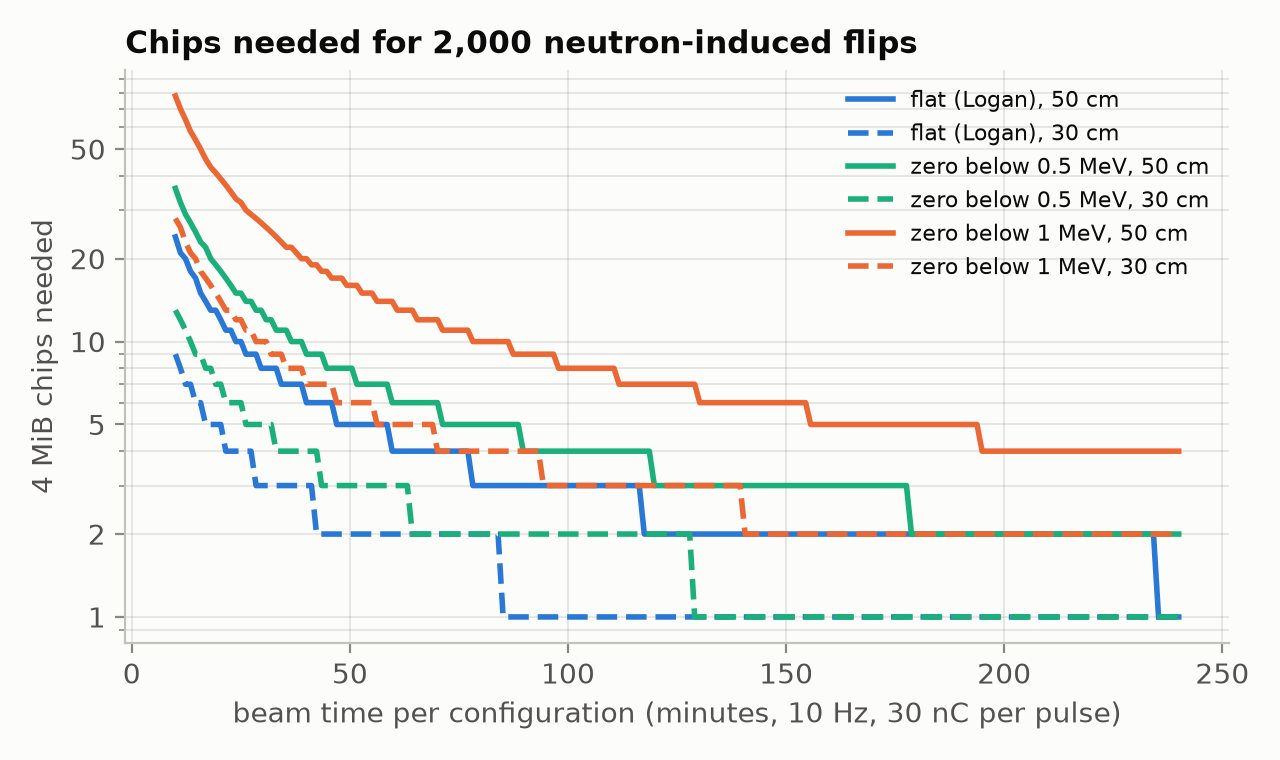
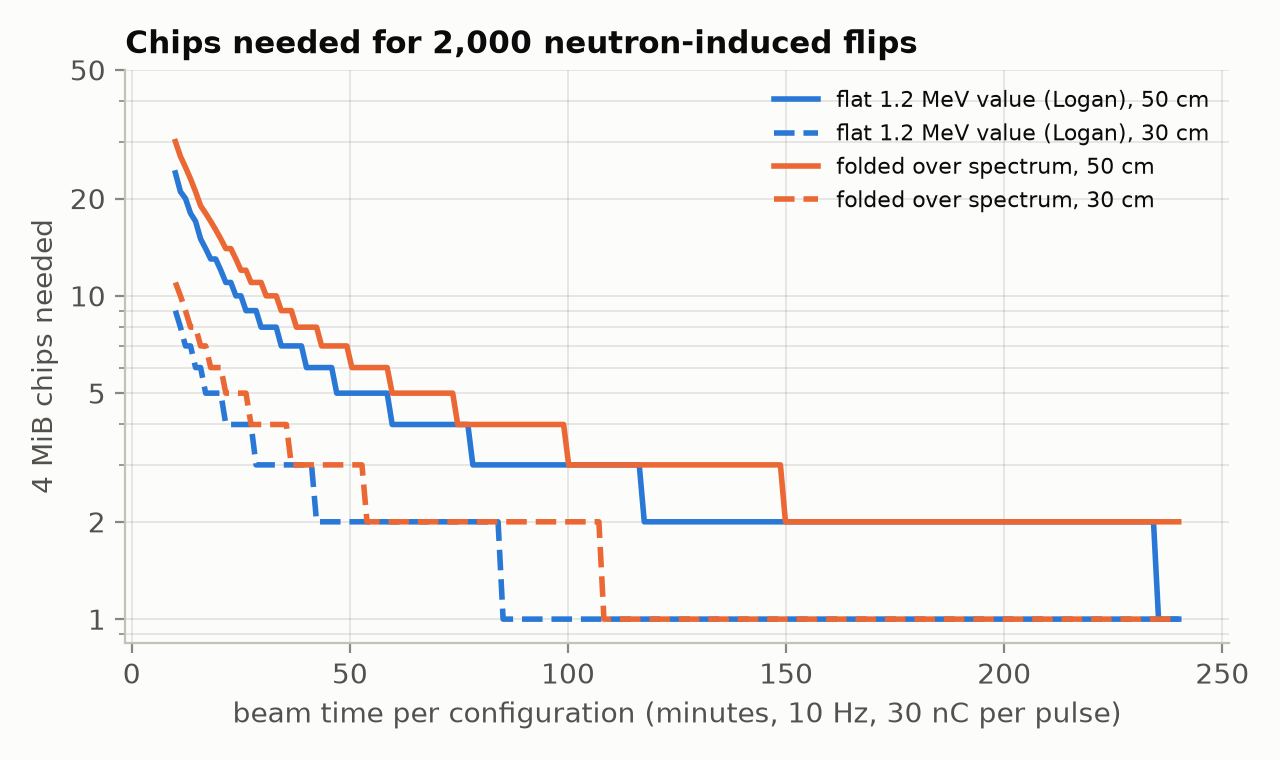
Fold measured neutron cross-section curve with Geant4 spectra
Logan's update adds the ISSI SRAM's sigma(E) Weibull fit, thermal-neutron
cross-section and dose-tolerance evidence. rate_calc.py folds sigma(E)
with every configuration's spectrum: 0.0112 flips/pulse/chip behind lead
(21% below the single-energy estimate); behind 10 cm polyethylene 75% of
upsets come from thermal neutrons.

diff --git a/burst_sim/rate_calc.py b/burst_sim/rate_calc.py
@@ -2,8 +2,8 @@
 Upset rates and memory needed, built on Logan's estimate (radiation_estimates.md).
 
 1. Reproduces Logan's numbers exactly, as a check.
-2. Brackets the neutron rate using the simulated energy spectrum behind lead,
-   because the cross-section is only known here at 1.2 MeV.
+2. Folds the measured cross-section curve sigma(E) (Cecchetto 2021 Weibull fit, plus
+   a thermal-neutron term) with the Geant4 spectrum of every configuration.
 3. Tabulates chips needed against beam time, for 1,000 and 2,000 flips.
 4. Dose per pulse for the direct-electron arm.
 
@@ -18,7 +18,7 @@ import numpy as np
 import matplotlib.pyplot as plt
 
 from burst_sim import save, HERE, BLUE, ORANGE, AQUA, INK2
-from flux_sim import load, zone_area_cm2, E_EDGES
+from flux_sim import load, zone_area_cm2, E_EDGES, CONFIGS
 
 E_CHARGE = 1.602176634e-19
 E_PER_NC = 1e-9 / E_CHARGE
@@ -38,11 +38,34 @@ TIMES_MIN = [10, 30, 60, 120, 240]
 TARGETS = [1000, 2000]
 
 
-def neutron_spectrum():
-    """Neutron fluence per electron per cm2 at 80-100 deg, 50 cm, behind W 2 cm + 10 cm lead."""
-    h, n = load(2.0, "lead", 10.0)
+def neutron_spectrum(thick=2.0, shield="lead", sthick=10.0):
+    """Neutron fluence per electron per cm2 per energy bin at 80-100 deg, 50 cm."""
+    h, n = load(thick, shield, sthick)
+    if h is None:
+        return None, 0
     area = zone_area_cm2()[8:10].sum()
     return h[0, 8:10].sum(0) / n / area, int(h[0, 8:10].sum())
+
+
+# Cecchetto 2021 (via Logan): Weibull fit and measured points, ISSI 40 nm SRAM
+WEIBULL = dict(sat=1.40e-14, e0=0.01, w=14.05, s=0.82)       # cm2/bit, MeV, MeV, -
+SIGMA_N_MEASURED = [(0.144, 3.68e-16), (1.2, 1.61e-15), (17.0, 1.91e-14)]
+SIGMA_THERMAL = 3.16e-15            # cm2/bit at 3.3 V, thermal neutrons (Logan's source)
+E_THERMAL = 2.53e-8                 # MeV (0.0253 eV)
+
+
+def weibull(e):
+    x = np.clip(e - WEIBULL["e0"], 0, None)
+    return WEIBULL["sat"] * (1 - np.exp(-(x / WEIBULL["w"]) ** WEIBULL["s"]))
+
+
+def thermal(e):
+    """Assumed 1/v (boron-10-like) capture response, normalised to the thermal value."""
+    return SIGMA_THERMAL * np.sqrt(E_THERMAL / e)
+
+
+def sigma_n(e):
+    return weibull(e) + thermal(e)
 
 
 def chips_needed(flips_per_chip_per_pulse, target, minutes):
@@ -77,10 +100,27 @@ def main():
     e_mid = np.sqrt(E_EDGES[:-1] * E_EDGES[1:])
     res["neutron_spectrum_behind_10cm_lead"] = dict(
         mean_energy_MeV=float((spec * e_mid).sum() / phi_e), fraction=frac)
-    # bounding models for sigma(E): same 1.2 MeV value everywhere above a threshold, 0 below
-    models = {"flat (Logan)": 1.0,
-              "zero below 0.5 MeV": frac["above_0.5_MeV"],
-              "zero below 1 MeV": frac["above_1.0_MeV"]}
+    # folded sigma(E) for every Geant4 configuration (Logan's Cecchetto fit + thermal term)
+    res["sigma_fit_check"] = {str(E): dict(fit=float(sigma_n(np.array(E))), measured=m)
+                              for E, m in SIGMA_N_MEASURED}
+    res["folded"] = {}
+    for label, thick, shield, sthick in CONFIGS:
+        sp, cnt = neutron_spectrum(thick, shield, sthick)
+        if sp is None:
+            continue
+        fast = (sp * weibull(e_mid)).sum()
+        slow = (sp * thermal(e_mid)).sum()
+        per_pulse = CHIP_BITS * E_PER_NC * Q_NEUTRON_NC
+        res["folded"][label] = dict(
+            neutrons_counted=cnt,
+            neutron_per_cm2_per_electron=float(sp.sum()),
+            thermal_fraction_below_0p5eV=float(sp[e_mid < 0.5e-6].sum() / sp.sum()),
+            effective_sigma_cm2_per_bit=float((fast + slow) / sp.sum()),
+            upsets_per_pulse_per_chip_50cm=float((fast + slow) * per_pulse),
+            fraction_from_thermal_term=float(slow / (fast + slow)))
+    lead = res["folded"]["W 2 cm + 10 cm lead"]
+    models = {"flat 1.2 MeV value (Logan)": 1.0,
+              "folded over spectrum": lead["upsets_per_pulse_per_chip_50cm"] / n_rate_flat}
     res["neutron_models"] = {}
     for name, f in models.items():
         for dist in [50, 30]:
@@ -107,7 +147,7 @@ def main():
     # ---- figure: chips needed vs beam time, 2,000 flips ----
     t = np.linspace(10, 240, 200)
     fig, ax = plt.subplots(figsize=(6.4, 3.8))
-    for (name, f), colr in zip(models.items(), [BLUE, AQUA, ORANGE]):
+    for (name, f), colr in zip(models.items(), [BLUE, ORANGE]):
         for dist, ls in [(50, "-"), (30, "--")]:
             r = n_rate_flat * f * (50 / dist) ** 2
             ax.plot(t, np.ceil(2000 / (r * t * 60 * RATE_HZ)), color=colr, ls=ls,

diff --git a/BURST_preliminary_results.md b/BURST_preliminary_results.md
@@ -151,21 +151,25 @@ Logan's write-up is in [radiation_estimates.md](radiation_estimates.md). It repl
 
 Assumed beam: 30 nC per pulse for the neutron arm, 0.01 nC per pulse on 1 cm² for the direct arm, 10 Hz.
 
-| | Flips per pulse, one chip | One chip, minutes for 1,000 flips |
-|---|---|---|
-| Neutrons, 50 cm, σ(1.2 MeV) for all neutrons (Logan) | 0.014 | 117 |
-| Neutrons, 50 cm, σ = 0 below 0.5 MeV | 0.0094 | 178 |
-| Neutrons, 50 cm, σ = 0 below 1 MeV | 0.0043 | 389 |
-| Same three, at 30 cm | 0.040 / 0.026 / 0.012 | 42 / 64 / 140 |
-| Direct electrons, 1 cm² | 0.0099 (0.005 to 0.015 at 1σ) | 168 |
+Logan then found the chip's full neutron response in the same paper: measured values at 0.144, 1.2 and 17 MeV, a Weibull fit (saturation 1.40e-14 cm², threshold 0.01 MeV, width 14.05 MeV, shape 0.82), and a thermal-neutron cross-section of (3.16 ± 0.64)e-15 cm² per bit at 3.3 V. `rate_calc.py` folds this curve with the Geant4 spectrum of every configuration. For the thermal part it assumes a 1/v (boron-10-like) energy dependence normalised to the thermal value; that shape is our assumption.
 
-**The spectrum matters.** Behind 10 cm of lead the neutrons average 0.87 MeV; 30% are above 1 MeV and 66% above 0.5 MeV. The cross-section is known here only at 1.2 MeV, so the two "σ = 0 below" rows are bounding cases. The real rate is likely between them and Logan's number until σ(E) from the Cecchetto paper is folded with the spectrum.
+| Configuration, 90°, 50 cm, 30 nC per pulse | Effective σ per bit | Flips per pulse, one chip | Share from the thermal term |
+|---|---|---|---|
+| W 2 cm, bare | 1.67e-15 | 0.0115 | 0% |
+| W 2 cm + 10 cm lead | 1.26e-15 | 0.0112 | 0% |
+| W 2 cm + 5 cm polyethylene | 1.64e-15 | 0.0091 | 55% |
+| W 2 cm + 10 cm polyethylene | 1.93e-15 | 0.0044 | 75% |
+| Direct electrons, 0.01 nC on 1 cm² | 4.74e-18 | 0.0099 (0.005 to 0.015 at 1σ) | |
 
-**Chips against beam time.** For 2,000 flips at 30 cm, the neutron arm needs 2 to 5 chips for one hour of beam, or 1 to 3 chips for two hours. More memory and more beam time trade off directly.
+**The fold lowers Logan's number by only 21%,** from 0.0142 to 0.0112 flips per pulse behind lead. The cross-section rises slowly with energy, so sub-MeV neutrons still upset bits, and the fast tail is worth more than σ(1.2 MeV). The earlier "up to 3.3× lower" bounds were too pessimistic. At 30 cm the rate is 0.031 flips per pulse per chip. The fit undershoots the 17 MeV point by a factor of 2, which does not matter here because under 1% of the neutrons are above 10 MeV.
+
+**Polyethylene does not make the chip safer, as Logan predicted.** Behind 10 cm of polyethylene, 54% of the neutrons are thermal and they cause 75% of the upsets. That makes the polyethylene configuration a test of the boron-10 mechanism, not just a weaker field.
+
+**Chips against beam time.** For 2,000 flips with the folded rate, the neutron arm needs 2 chips for one hour of beam at 30 cm (5 at 50 cm), or 1 chip for two hours at 30 cm. More memory and more beam time trade off directly.
 
 ![chips vs time](burst_sim/figures/fig10_chips_vs_time.png)
 
-**The direct-electron arm is limited by dose, not memory.** Only chips inside the ~1 cm² beam count; adding memory means stacking boards along the beam, not yet simulated. Each pulse gives about 0.017 Gy(Si), so 1,000 flips on one chip costs about 1.7 kGy. The dose per flip is fixed by the cross-section, so lowering the charge only stretches the time. Whether this chip survives that dose needs checking.
+**The direct-electron arm is limited by dose, not memory.** Only chips inside the ~1 cm² beam count; adding memory means stacking boards along the beam, not yet simulated. Each pulse gives about 0.017 Gy(Si), so 1,000 flips on one chip costs about 1.7 kGy. The dose per flip is fixed by the cross-section, so lowering the charge only stretches the time. Logan found that a chip from the same ISSI family stayed functional after 10 kGy of gamma dose, with its supply current roughly doubled (Li et al. 2022), so 1.7 to 3.4 kGy looks survivable. That paper's subject is also a warning: accumulated dose changes upset sensitivity, so the direct-arm cross-section may drift during the run. Logging flips against accumulated dose turns this into a measurement rather than a confound.
 
 ## What this changes in the proposal
 
@@ -177,8 +181,9 @@ Assumed beam: 30 nC per pulse for the neutron arm, 0.01 nC per pulse on 1 cm² f
 
 ## What is still not done
 
-- **Neutron cross-section known at one energy only.** Section 8 uses a measured value at 1.2 MeV; the rate spans a factor of about 3.3 until σ(E) is folded with the simulated spectrum. Slow-neutron sensitivity (boron-10 content) is also unknown.
-- **Direct-electron arm:** board stacking not simulated, and the chip's tolerance to about 1.7 kGy is unchecked.
+- **Thermal neutrons from the room are not simulated.** The Geant4 world is air with no walls. In a real concrete hall, neutrons scattered back from the walls add a thermal background to every configuration, and this chip is as sensitive to thermal neutrons as to fast ones. The 1/v shape of the thermal response is also an assumption.
+- **Geant4 statistics are thin in the polyethylene runs** (158 neutrons counted behind 10 cm, about 8%), and the photonuclear model carries about a factor-2 uncertainty.
+- **Direct-electron arm:** board stacking not simulated; dose tolerance is from gamma tests, not pulsed electrons.
 - **CLEAR beam parameters not read.** The 2027 Beams & Detectors document is over 10 MB and did not download in this session. Read it for energy, charge per pulse, repetition rate, and whether own electronics are allowed.
 - **Line-shaped clusters and a geometric size distribution are assumptions.** Real multi-cell upsets depend on the cell layout.
 - **Within-pulse timing is not modelled**, because a CLEAR bunch is far shorter than any readout. "Time clustering" here means pulse-to-pulse.
@@ -191,7 +196,7 @@ Rules from the 2027 invitation: at least five members, every member enrolled in 
 |---|---|---|
 | Sashreek | Lead; decoder and adaptive controller; readout firmware logic | Choose candidate memory devices and settle the bitmap question (item 2) |
 | Prithwijit | Simulation and analysis owner | Take over `burst_sim.py`; add a realistic multi-cell-upset shape model; start the neutron and electron yield estimate |
-| Logan | Radiation physics: secondaries, cross-sections, literature | Done: flips-per-pulse estimate ([radiation_estimates.md](radiation_estimates.md)). Next: σ(E) values from Cecchetto Table III, dose tolerance, thermal-neutron sensitivity (confirmed enrolled in high school 2026/27) |
+| Logan | Radiation physics: secondaries, cross-sections, literature | Done: flips-per-pulse estimate, σ(E), dose tolerance, thermal sensitivity ([radiation_estimates.md](radiation_estimates.md)) (confirmed enrolled in high school 2026/27) |
 | Open seat 4 | Hardware build: microcontroller, memory boards, remote logging | Bench prototype that writes a pattern, reads back, logs flips |
 | Open seat 5 | Dosimetry, shielding plan, outreach section | Draft the 200-word outreach activity and run it before March |
 | Coach (needed) | Adult contact for submission; ideally a teacher | Register as contact person |

diff --git a/radiation_estimates.md b/radiation_estimates.md
@@ -1,6 +1,6 @@
 # Radiation physics: preliminary SEU-rate and memory-size estimates
 
-**Author:** Logan Piñeiro. First version, 2026-11-18. Copied here unchanged apart from formatting; review notes are at the end and are not part of Logan's text.
+**Author:** Logan Piñeiro. First version 2026-11-18, update 2026-11-19. Copied here unchanged apart from formatting; review notes are at the end and are not part of Logan's text.
 
 **Status:** feasibility estimates, not beam measurements. Calculations use the team's Geant4 neutron yield, published single-event upset (SEU) cross-sections, and explicitly assumed CLEAR operating parameters. The goal is ~1,000 expected upsets per configuration.
 
@@ -83,6 +83,78 @@ Planning scenario: direct 200 MeV electrons; 0.01 nC/pulse and a uniform 1 cm² 
 3. Coronetti, A., et al. (2020). "SEU Characterization of Commercial and Custom-Designed SRAMs Based on 90 nm Technology and Below." IEEE Radiation Effects Data Workshop. [DOI: 10.1109/REDW51883.2020.9325822](https://doi.org/10.1109/REDW51883.2020.9325822). ISSI 200 MeV electron SEU cross-section: (4.74 ± 2.20) × 10⁻¹⁸ cm²/bit.
 4. NIST CODATA. Elementary charge, exactly 1.602176634 × 10⁻¹⁹ C. [Reference](https://physics.nist.gov/cgi-bin/cuu/Value?e).
 
+## Update 2026-11-19 (Logan)
+
+### 1. Neutron cross-sections
+
+I found the measured neutron upset cross-sections for our ISSI SRAM in Cecchetto et al. (2021), Table III. The measurements cover three different neutron energies, which should help us get a more accurate upset rate using the Geant4 neutron spectrum.
+
+| Neutron energy | Upset cross-section (cm²/bit) |
+|---|---|
+| 0.144 MeV | 3.68 × 10⁻¹⁶ |
+| 1.2 MeV | 1.61 × 10⁻¹⁵ |
+| 17 MeV | 1.91 × 10⁻¹⁴ |
+
+The paper also provides a fitted neutron-response function, which we can use to estimate the cross-section between measured energies.
+
+| Weibull parameter | Value |
+|---|---|
+| Saturation cross-section | 1.40 × 10⁻¹⁴ cm²/bit |
+| Threshold energy | 0.01 MeV |
+| Width | 14.05 MeV |
+| Shape | 0.82 |
+
+Since only around 35% of our simulated neutrons are above 1 MeV, I agree that using the 1.2 MeV cross-section for the entire neutron population could overestimate the upset rate. The remaining neutrons still contribute, but their cross-sections are generally smaller. The next step is integrating this energy-dependent response over the Geant4 spectrum rather than treating every neutron as having the same energy.
+
+Source: Cecchetto et al. (2021), [doi:10.1109/TNS.2021.3064666](https://doi.org/10.1109/TNS.2021.3064666).
+
+### 2. Direct-electron dose and chip survival
+
+I found a 2022 study by Li et al. that tested an ISSI IS61WV204816-family 40 nm SRAM under gamma irradiation. The chip remained functional after an accumulated dose of 10 kGy, although its static supply current approximately doubled.
+
+| Beam time | Pulses at 10 Hz | Accumulated dose |
+|---|---|---|
+| 10 minutes | 6,000 | 102 Gy |
+| 30 minutes | 18,000 | 306 Gy |
+| 1 hour | 36,000 | 612 Gy |
+| 2 hours | 72,000 | 1,224 Gy |
+| One chip, 1,000 expected flips | ~100,736 | ~1.71 kGy |
+| One chip, 2,000 expected flips | ~201,472 | ~3.43 kGy |
+
+Based on these results, the ISSI SRAM looks promising in terms of total dose tolerance. Even the estimated dose needed for 2,000 flips is below the 10 kGy level tested in the paper. However, the published test used gamma irradiation rather than pulsed high-energy electrons, so we'd still need to verify the chip's response under our actual beam conditions. This also doesn't guarantee that the supporting electronics would survive the same exposure.
+
+Source: Li et al. (2022), "Effects of Total Ionizing Dose on Transient Ionizing Radiation Upset Sensitivity of 40–180 nm SRAMs." [doi:10.1063/5.0081576](https://doi.org/10.1063/5.0081576).
+
+### 3. Revised memory requirements vs. beam time
+
+Still using the 1.2 MeV cross-section. Chips needed:
+
+| Neutrons (30 nC/pulse, 10 Hz, 2 cm W, 10 cm Pb) | 50 cm: 1,000 | 50 cm: 2,000 | 30 cm: 1,000 | 30 cm: 2,000 |
+|---|---|---|---|---|
+| 10 min | 12 | 24 | 5 | 9 |
+| 30 min | 4 | 8 | 2 | 3 |
+| 1 hour | 2 | 4 | 1 | 2 |
+| 2 hours | 1 | 2 | 1 | 1 |
+
+| Direct electrons (0.01 nC/pulse, 10 Hz, uniform 1 cm²) | 1,000 flips | 2,000 flips |
+|---|---|---|
+| 10 min | 17 | 34 |
+| 30 min | 6 | 12 |
+| 1 hour | 3 | 6 |
+| 2 hours | 2 | 3 |
+
+The electron numbers are equivalent amounts of exposed memory, not necessarily a practical number of separate chips; adding chips outside the beam wouldn't increase upsets. We'd need to investigate stacking boards along the beam.
+
+### 4. Moving the neutron chips to 30 cm
+
+Moving from 50 cm to 30 cm increases the estimated neutron fluence by approximately 2.7 times (inverse square). We still need to confirm that a chip can be positioned at 30 cm with the proposed shielding: the current Geant4 setup places the outer edge of the 10 cm lead shield at approximately that radius.
+
+### 5. Thermal-neutron sensitivity and polyethylene
+
+The ISSI IS61WV204816BLL-10TLI responds to thermal neutrons. At 3.3 V, the reported thermal-neutron upset cross-section is σ_thermal = (3.16 ± 0.64) × 10⁻¹⁵ cm²/bit.
+
+This matters for the polyethylene configuration because polyethylene moderates neutrons toward thermal energies. One possible mechanism is neutron capture by boron-10, which produces secondary charged particles capable of upsetting memory cells; we'd need more information about the device materials to establish how much comes from boron-10. We shouldn't assume the polyethylene configuration produces fewer upsets simply because the average neutron energy is lower.
+
 ---
 
 ## Review notes (not part of Logan's text)
@@ -93,3 +165,10 @@ All arithmetic above was reproduced independently by `burst_sim/rate_calc.py`. O
 2. **Direct-electron geometry.** In a ~1 cm² beam, extra chips side by side are outside the beam. More memory means stacking boards along the beam, which needs simulating.
 3. **Dose.** 0.01 nC/pulse on 1 cm² is ~0.017 Gy(Si) per pulse: ~100 Gy per 6,000 pulses, ~1.7 kGy for 1,000 flips on one chip. The device's dose tolerance needs checking.
 4. **Run length and flip target.** The layout-blind cluster test needs ~2,000 flips for the weakest clustering simulated. Results are tabulated as chips needed against beam time, for 1,000 and 2,000 flips.
+
+### Notes on the 2026-11-19 update
+
+5. **Fold done.** `rate_calc.py` folds the Weibull fit plus the thermal value (assumed 1/v shape) with each Geant4 spectrum. Behind 10 cm of lead the rate is 0.0112 flips per pulse per chip at 50 cm, 21% below the 1.2 MeV estimate, not up to 3.3× lower. See section 8 of `BURST_preliminary_results.md`.
+6. **Thermal term confirmed important.** Behind 10 cm of polyethylene, 75% of the upsets come from the thermal term.
+7. **Source needed for σ_thermal.** Section 5 gives the value without a reference; add one before it goes into the proposal.
+8. **Small correction:** the fraction above 1 MeV behind lead is about 30% once the bin straddling 1 MeV is split properly (35% was a coarser count).

diff --git a/README.md b/README.md
@@ -26,7 +26,7 @@ Working repo for our entry to CERN's [Beamline for Schools 2027](https://beamlin
 - A spatial test needs a few hundred flips to detect clustering; a time-only test needs thousands to tens of thousands.
 - Clusters can be detected and sized from logical addresses alone, without the chip's physical layout, at a cost of 2 to 4 times more data.
 - Geant4: a 2 cm tungsten converter gives about 0.04 neutrons per 200 MeV electron, at about 1 MeV, evenly in all directions. At 90 degrees, 10 cm of lead removes 99% of the photons and none of the neutrons.
-- With a real 40 nm SRAM and published cross-sections, one 4 MiB chip gets about 0.004 to 0.014 neutron-induced flips per pulse at 30 nC. A few chips and an hour or two of beam give 2,000 flips.
+- With a real 40 nm SRAM and published cross-sections, one 4 MiB chip gets about 0.011 neutron-induced flips per pulse at 30 nC behind lead (0.031 at 30 cm). Two chips and one hour of beam give 2,000 flips. Behind polyethylene, thermal neutrons cause most of the upsets.
 - Adaptive scrubbing cuts failures from accumulated flips by about 40% but does almost nothing against bursts.
 
 ![Decoder result](burst_sim/figures/fig3_decoder.png)
@@ -48,7 +48,7 @@ The beam simulation needs Geant4 (`pip install geant4-pybind`, plus a 2 GB data 
 
 ## Biggest open questions
 
-1. The chip's neutron cross-section below 1.2 MeV. It is measured at 1.2 MeV only, and most simulated neutrons are softer, so the rate is uncertain by a factor of about 3.
+1. Thermal neutrons scattered back from the hall walls. They are not simulated, and the reference chip is about as sensitive to them as to fast neutrons.
 2. Which memory devices to use, and whether their address scrambling is the simple kind our layout-blind method assumes.
 3. CLEAR beam parameters and whether teams may bring their own electronics.
 
